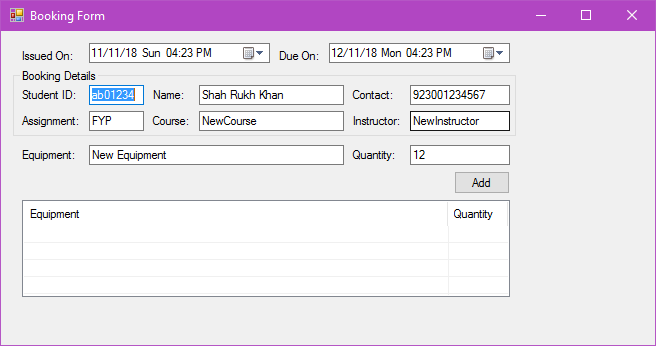
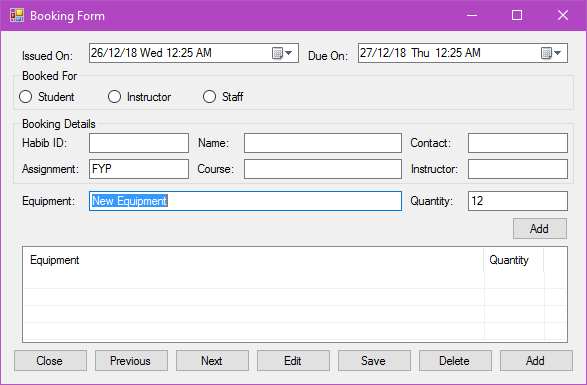
Added buttons to booking form

diff --git a/FilmStudio/frmBooking.Designer.cs b/FilmStudio/frmBooking.Designer.cs
@@ -54,9 +54,16 @@
             this.dateTimeDue = new System.Windows.Forms.DateTimePicker();
             this.btnAddEquipment = new System.Windows.Forms.Button();
             this.groupBoxBookedFor = new System.Windows.Forms.GroupBox();
-            this.rbtnStudent = new System.Windows.Forms.RadioButton();
-            this.rbtnInstructor = new System.Windows.Forms.RadioButton();
             this.rbtnStaff = new System.Windows.Forms.RadioButton();
+            this.rbtnInstructor = new System.Windows.Forms.RadioButton();
+            this.rbtnStudent = new System.Windows.Forms.RadioButton();
+            this.btnClose = new System.Windows.Forms.Button();
+            this.btnPrevious = new System.Windows.Forms.Button();
+            this.btnNext = new System.Windows.Forms.Button();
+            this.btnEdit = new System.Windows.Forms.Button();
+            this.btnSave = new System.Windows.Forms.Button();
+            this.btnDelete = new System.Windows.Forms.Button();
+            this.btnAdd = new System.Windows.Forms.Button();
             this.groupBoxDetails.SuspendLayout();
             this.groupBoxBookedFor.SuspendLayout();
             this.SuspendLayout();
@@ -65,19 +72,19 @@
             // 
             this.txtHabibID.Location = new System.Drawing.Point(76, 16);
             this.txtHabibID.Name = "txtHabibID";
-            this.txtHabibID.Size = new System.Drawing.Size(55, 20);
+            this.txtHabibID.Size = new System.Drawing.Size(100, 20);
             this.txtHabibID.TabIndex = 0;
             // 
             // txtName
             // 
-            this.txtName.Location = new System.Drawing.Point(186, 16);
+            this.txtName.Location = new System.Drawing.Point(231, 16);
             this.txtName.Name = "txtName";
-            this.txtName.Size = new System.Drawing.Size(145, 20);
+            this.txtName.Size = new System.Drawing.Size(158, 20);
             this.txtName.TabIndex = 1;
             // 
             // txtContact
             // 
-            this.txtContact.Location = new System.Drawing.Point(397, 16);
+            this.txtContact.Location = new System.Drawing.Point(455, 16);
             this.txtContact.Name = "txtContact";
             this.txtContact.Size = new System.Drawing.Size(100, 20);
             this.txtContact.TabIndex = 2;
@@ -94,7 +101,7 @@
             // lblName
             // 
             this.lblName.AutoSize = true;
-            this.lblName.Location = new System.Drawing.Point(137, 19);
+            this.lblName.Location = new System.Drawing.Point(182, 19);
             this.lblName.Name = "lblName";
             this.lblName.Size = new System.Drawing.Size(38, 13);
             this.lblName.TabIndex = 104;
@@ -103,7 +110,7 @@
             // lblContact
             // 
             this.lblContact.AutoSize = true;
-            this.lblContact.Location = new System.Drawing.Point(337, 19);
+            this.lblContact.Location = new System.Drawing.Point(395, 19);
             this.lblContact.Name = "lblContact";
             this.lblContact.Size = new System.Drawing.Size(47, 13);
             this.lblContact.TabIndex = 105;
@@ -115,7 +122,7 @@
             this.dateTimeIssued.Format = System.Windows.Forms.DateTimePickerFormat.Custom;
             this.dateTimeIssued.Location = new System.Drawing.Point(88, 12);
             this.dateTimeIssued.Name = "dateTimeIssued";
-            this.dateTimeIssued.Size = new System.Drawing.Size(181, 20);
+            this.dateTimeIssued.Size = new System.Drawing.Size(210, 20);
             this.dateTimeIssued.TabIndex = 50;
             this.dateTimeIssued.Value = new System.DateTime(2018, 11, 8, 12, 30, 0, 0);
             // 
@@ -131,7 +138,7 @@
             // lblDue
             // 
             this.lblDue.AutoSize = true;
-            this.lblDue.Location = new System.Drawing.Point(275, 18);
+            this.lblDue.Location = new System.Drawing.Point(304, 18);
             this.lblDue.Name = "lblDue";
             this.lblDue.Size = new System.Drawing.Size(47, 13);
             this.lblDue.TabIndex = 101;
@@ -149,7 +156,7 @@
             // lblCourse
             // 
             this.lblCourse.AutoSize = true;
-            this.lblCourse.Location = new System.Drawing.Point(137, 45);
+            this.lblCourse.Location = new System.Drawing.Point(182, 45);
             this.lblCourse.Name = "lblCourse";
             this.lblCourse.Size = new System.Drawing.Size(43, 13);
             this.lblCourse.TabIndex = 107;
@@ -158,7 +165,7 @@
             // lblInstructor
             // 
             this.lblInstructor.AutoSize = true;
-            this.lblInstructor.Location = new System.Drawing.Point(337, 45);
+            this.lblInstructor.Location = new System.Drawing.Point(395, 45);
             this.lblInstructor.Name = "lblInstructor";
             this.lblInstructor.Size = new System.Drawing.Size(54, 13);
             this.lblInstructor.TabIndex = 108;
@@ -168,19 +175,19 @@
             // 
             this.txtAssignment.Location = new System.Drawing.Point(76, 42);
             this.txtAssignment.Name = "txtAssignment";
-            this.txtAssignment.Size = new System.Drawing.Size(55, 20);
+            this.txtAssignment.Size = new System.Drawing.Size(100, 20);
             this.txtAssignment.TabIndex = 3;
             // 
             // txtCourse
             // 
-            this.txtCourse.Location = new System.Drawing.Point(186, 42);
+            this.txtCourse.Location = new System.Drawing.Point(231, 42);
             this.txtCourse.Name = "txtCourse";
-            this.txtCourse.Size = new System.Drawing.Size(145, 20);
+            this.txtCourse.Size = new System.Drawing.Size(158, 20);
             this.txtCourse.TabIndex = 4;
             // 
             // txtInstructor
             // 
-            this.txtInstructor.Location = new System.Drawing.Point(397, 42);
+            this.txtInstructor.Location = new System.Drawing.Point(455, 42);
             this.txtInstructor.Name = "txtInstructor";
             this.txtInstructor.Size = new System.Drawing.Size(100, 20);
             this.txtInstructor.TabIndex = 5;
@@ -198,14 +205,14 @@
             // 
             this.txtEquipment.Location = new System.Drawing.Point(88, 160);
             this.txtEquipment.Name = "txtEquipment";
-            this.txtEquipment.Size = new System.Drawing.Size(255, 20);
+            this.txtEquipment.Size = new System.Drawing.Size(313, 20);
             this.txtEquipment.TabIndex = 6;
             this.txtEquipment.TextChanged += new System.EventHandler(this.txtEquipment_TextChanged);
             // 
             // lblQuantity
             // 
             this.lblQuantity.AutoSize = true;
-            this.lblQuantity.Location = new System.Drawing.Point(349, 163);
+            this.lblQuantity.Location = new System.Drawing.Point(407, 163);
             this.lblQuantity.Name = "lblQuantity";
             this.lblQuantity.Size = new System.Drawing.Size(49, 13);
             this.lblQuantity.TabIndex = 110;
@@ -213,7 +220,7 @@
             // 
             // txtQuantity
             // 
-            this.txtQuantity.Location = new System.Drawing.Point(409, 160);
+            this.txtQuantity.Location = new System.Drawing.Point(467, 160);
             this.txtQuantity.Name = "txtQuantity";
             this.txtQuantity.Size = new System.Drawing.Size(100, 20);
             this.txtQuantity.TabIndex = 7;
@@ -236,7 +243,7 @@
             this.groupBoxDetails.Controls.Add(this.lblAssignment);
             this.groupBoxDetails.Location = new System.Drawing.Point(12, 86);
             this.groupBoxDetails.Name = "groupBoxDetails";
-            this.groupBoxDetails.Size = new System.Drawing.Size(503, 68);
+            this.groupBoxDetails.Size = new System.Drawing.Size(561, 68);
             this.groupBoxDetails.TabIndex = 102;
             this.groupBoxDetails.TabStop = false;
             this.groupBoxDetails.Text = "Booking Details";
@@ -252,7 +259,7 @@
             this.listViewBooking.Location = new System.Drawing.Point(21, 215);
             this.listViewBooking.MultiSelect = false;
             this.listViewBooking.Name = "listViewBooking";
-            this.listViewBooking.Size = new System.Drawing.Size(488, 97);
+            this.listViewBooking.Size = new System.Drawing.Size(546, 97);
             this.listViewBooking.TabIndex = 9;
             this.listViewBooking.UseCompatibleStateImageBehavior = false;
             this.listViewBooking.View = System.Windows.Forms.View.Details;
@@ -260,7 +267,7 @@
             // colHeadEquipment
             // 
             this.colHeadEquipment.Text = "Equipment";
-            this.colHeadEquipment.Width = 407;
+            this.colHeadEquipment.Width = 460;
             // 
             // colHeadQuantity
             // 
@@ -270,15 +277,15 @@
             // 
             this.dateTimeDue.CustomFormat = "dd/MM/yy ddd hh:mm tt";
             this.dateTimeDue.Format = System.Windows.Forms.DateTimePickerFormat.Custom;
-            this.dateTimeDue.Location = new System.Drawing.Point(328, 12);
+            this.dateTimeDue.Location = new System.Drawing.Point(357, 12);
             this.dateTimeDue.Name = "dateTimeDue";
-            this.dateTimeDue.Size = new System.Drawing.Size(181, 20);
+            this.dateTimeDue.Size = new System.Drawing.Size(210, 20);
             this.dateTimeDue.TabIndex = 51;
             this.dateTimeDue.Value = new System.DateTime(2018, 11, 8, 12, 30, 0, 0);
             // 
             // btnAddEquipment
             // 
-            this.btnAddEquipment.Location = new System.Drawing.Point(453, 186);
+            this.btnAddEquipment.Location = new System.Drawing.Point(511, 186);
             this.btnAddEquipment.Name = "btnAddEquipment";
             this.btnAddEquipment.Size = new System.Drawing.Size(56, 23);
             this.btnAddEquipment.TabIndex = 8;
@@ -293,32 +300,10 @@
             this.groupBoxBookedFor.Controls.Add(this.rbtnStudent);
             this.groupBoxBookedFor.Location = new System.Drawing.Point(12, 38);
             this.groupBoxBookedFor.Name = "groupBoxBookedFor";
-            this.groupBoxBookedFor.Size = new System.Drawing.Size(503, 42);
+            this.groupBoxBookedFor.Size = new System.Drawing.Size(561, 42);
             this.groupBoxBookedFor.TabIndex = 111;
             this.groupBoxBookedFor.TabStop = false;
             this.groupBoxBookedFor.Text = "Booked For";
-            // 
-            // rbtnStudent
-            // 
-            this.rbtnStudent.AutoSize = true;
-            this.rbtnStudent.Location = new System.Drawing.Point(6, 19);
-            this.rbtnStudent.Name = "rbtnStudent";
-            this.rbtnStudent.Size = new System.Drawing.Size(62, 17);
-            this.rbtnStudent.TabIndex = 0;
-            this.rbtnStudent.TabStop = true;
-            this.rbtnStudent.Text = "Student";
-            this.rbtnStudent.UseVisualStyleBackColor = true;
-            // 
-            // rbtnInstructor
-            // 
-            this.rbtnInstructor.AutoSize = true;
-            this.rbtnInstructor.Location = new System.Drawing.Point(95, 19);
-            this.rbtnInstructor.Name = "rbtnInstructor";
-            this.rbtnInstructor.Size = new System.Drawing.Size(69, 17);
-            this.rbtnInstructor.TabIndex = 1;
-            this.rbtnInstructor.TabStop = true;
-            this.rbtnInstructor.Text = "Instructor";
-            this.rbtnInstructor.UseVisualStyleBackColor = true;
             // 
             // rbtnStaff
             // 
@@ -331,11 +316,104 @@
             this.rbtnStaff.Text = "Staff";
             this.rbtnStaff.UseVisualStyleBackColor = true;
             // 
+            // rbtnInstructor
+            // 
+            this.rbtnInstructor.AutoSize = true;
+            this.rbtnInstructor.Location = new System.Drawing.Point(95, 19);
+            this.rbtnInstructor.Name = "rbtnInstructor";
+            this.rbtnInstructor.Size = new System.Drawing.Size(69, 17);
+            this.rbtnInstructor.TabIndex = 1;
+            this.rbtnInstructor.TabStop = true;
+            this.rbtnInstructor.Text = "Instructor";
+            this.rbtnInstructor.UseVisualStyleBackColor = true;
+            // 
+            // rbtnStudent
+            // 
+            this.rbtnStudent.AutoSize = true;
+            this.rbtnStudent.Location = new System.Drawing.Point(6, 19);
+            this.rbtnStudent.Name = "rbtnStudent";
+            this.rbtnStudent.Size = new System.Drawing.Size(62, 17);
+            this.rbtnStudent.TabIndex = 0;
+            this.rbtnStudent.TabStop = true;
+            this.rbtnStudent.Text = "Student";
+            this.rbtnStudent.UseVisualStyleBackColor = true;
+            // 
+            // btnClose
+            // 
+            this.btnClose.Location = new System.Drawing.Point(12, 318);
+            this.btnClose.Name = "btnClose";
+            this.btnClose.Size = new System.Drawing.Size(75, 23);
+            this.btnClose.TabIndex = 112;
+            this.btnClose.Text = "Close";
+            this.btnClose.UseVisualStyleBackColor = true;
+            this.btnClose.Click += new System.EventHandler(this.btnClose_Click);
+            // 
+            // btnPrevious
+            // 
+            this.btnPrevious.Location = new System.Drawing.Point(93, 318);
+            this.btnPrevious.Name = "btnPrevious";
+            this.btnPrevious.Size = new System.Drawing.Size(75, 23);
+            this.btnPrevious.TabIndex = 113;
+            this.btnPrevious.Text = "Previous";
+            this.btnPrevious.UseVisualStyleBackColor = true;
+            // 
+            // btnNext
+            // 
+            this.btnNext.Location = new System.Drawing.Point(174, 318);
+            this.btnNext.Name = "btnNext";
+            this.btnNext.Size = new System.Drawing.Size(75, 23);
+            this.btnNext.TabIndex = 114;
+            this.btnNext.Text = "Next";
+            this.btnNext.UseVisualStyleBackColor = true;
+            // 
+            // btnEdit
+            // 
+            this.btnEdit.Location = new System.Drawing.Point(255, 318);
+            this.btnEdit.Name = "btnEdit";
+            this.btnEdit.Size = new System.Drawing.Size(75, 23);
+            this.btnEdit.TabIndex = 115;
+            this.btnEdit.Text = "Edit";
+            this.btnEdit.UseVisualStyleBackColor = true;
+            // 
+            // btnSave
+            // 
+            this.btnSave.Location = new System.Drawing.Point(336, 318);
+            this.btnSave.Name = "btnSave";
+            this.btnSave.Size = new System.Drawing.Size(75, 23);
+            this.btnSave.TabIndex = 116;
+            this.btnSave.Text = "Save";
+            this.btnSave.UseVisualStyleBackColor = true;
+            // 
+            // btnDelete
+            // 
+            this.btnDelete.Location = new System.Drawing.Point(417, 318);
+            this.btnDelete.Name = "btnDelete";
+            this.btnDelete.Size = new System.Drawing.Size(75, 23);
+            this.btnDelete.TabIndex = 117;
+            this.btnDelete.Text = "Delete";
+            this.btnDelete.UseVisualStyleBackColor = true;
+            // 
+            // btnAdd
+            // 
+            this.btnAdd.Location = new System.Drawing.Point(498, 318);
+            this.btnAdd.Name = "btnAdd";
+            this.btnAdd.Size = new System.Drawing.Size(75, 23);
+            this.btnAdd.TabIndex = 118;
+            this.btnAdd.Text = "Add";
+            this.btnAdd.UseVisualStyleBackColor = true;
+            // 
             // frmBooking
             // 
             this.AutoScaleDimensions = new System.Drawing.SizeF(6F, 13F);
             this.AutoScaleMode = System.Windows.Forms.AutoScaleMode.Font;
-            this.ClientSize = new System.Drawing.Size(527, 503);
+            this.ClientSize = new System.Drawing.Size(585, 353);
+            this.Controls.Add(this.btnAdd);
+            this.Controls.Add(this.btnDelete);
+            this.Controls.Add(this.btnSave);
+            this.Controls.Add(this.btnEdit);
+            this.Controls.Add(this.btnNext);
+            this.Controls.Add(this.btnPrevious);
+            this.Controls.Add(this.btnClose);
             this.Controls.Add(this.groupBoxBookedFor);
             this.Controls.Add(this.btnAddEquipment);
             this.Controls.Add(this.listViewBooking);
@@ -391,5 +469,12 @@
         private System.Windows.Forms.RadioButton rbtnStaff;
         private System.Windows.Forms.RadioButton rbtnInstructor;
         private System.Windows.Forms.RadioButton rbtnStudent;
+        private System.Windows.Forms.Button btnClose;
+        private System.Windows.Forms.Button btnPrevious;
+        private System.Windows.Forms.Button btnNext;
+        private System.Windows.Forms.Button btnEdit;
+        private System.Windows.Forms.Button btnSave;
+        private System.Windows.Forms.Button btnDelete;
+        private System.Windows.Forms.Button btnAdd;
     }
 }

diff --git a/FilmStudio/frmBooking.cs b/FilmStudio/frmBooking.cs
@@ -107,5 +107,10 @@ namespace FilmStudio
                 btnAddEquipment.PerformClick();
             }
         }
+
+        private void btnClose_Click(object sender, EventArgs e)
+        {
+            Close();
+        }
     }
 }
